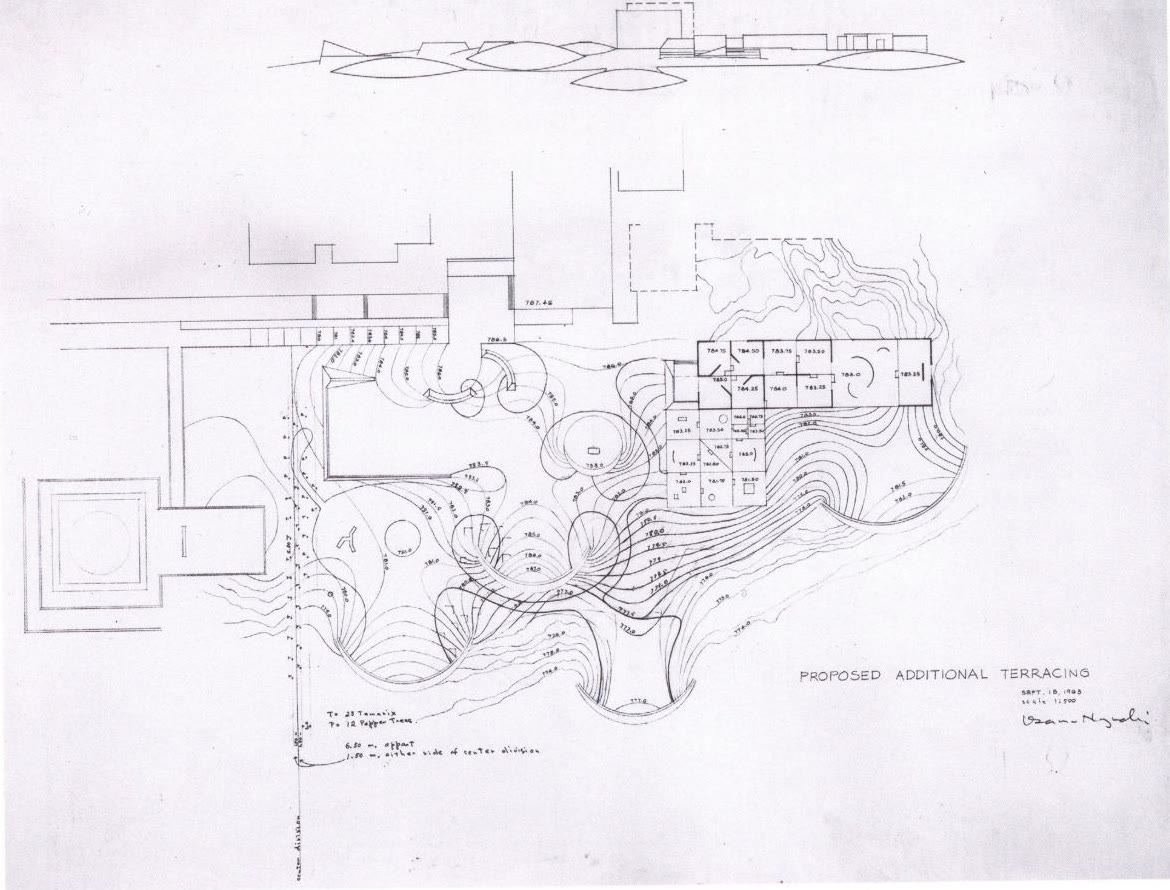
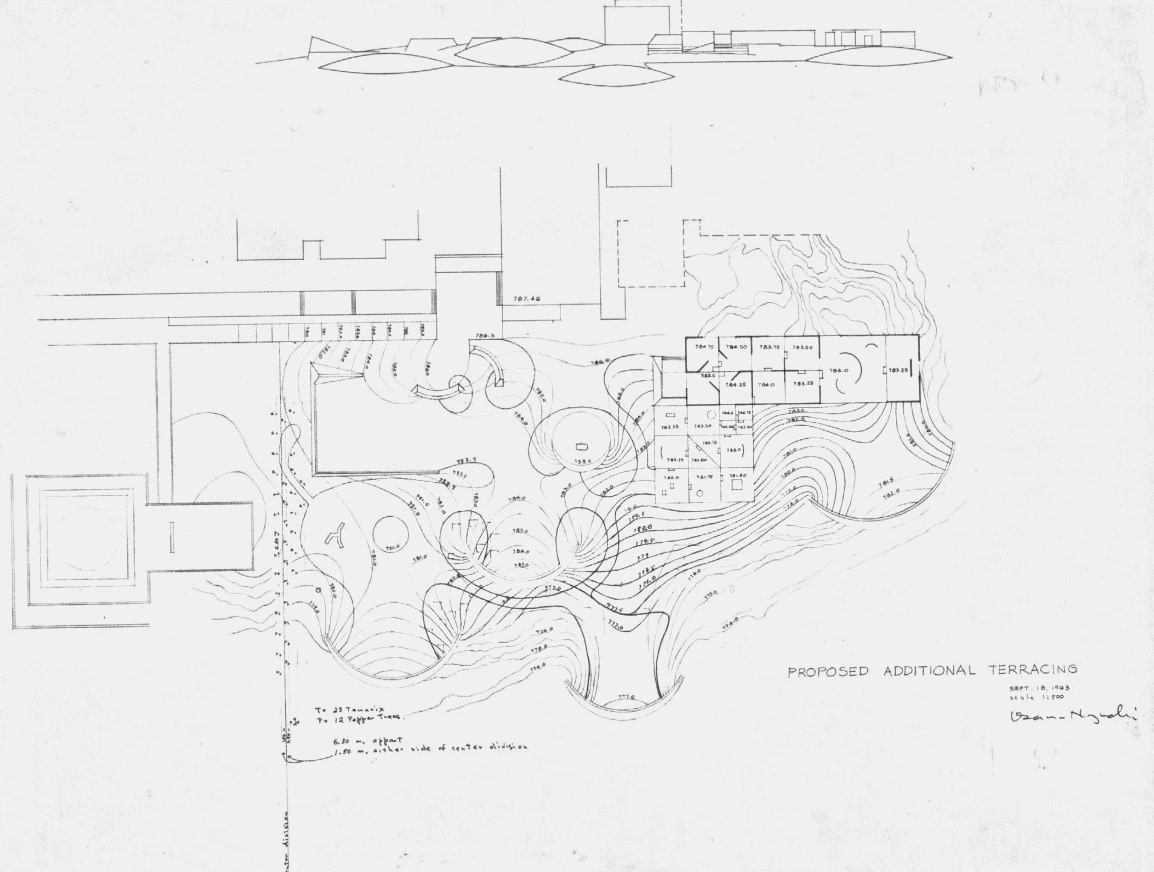
Exhibitions: continent filter and year sort; clean up two photos
- exhibitions.html/js: replace Period/Medium/Category with a Continent filter and a Year sort (oldest to newest or the reverse); filled in No Ordinary Light details
- Link the Donate nav items and footer button to donate.html
- Straighten and even out the Billy Rose garden drawing scan
- Crop the Do Not Touch sign out of the "I am not a designer" photo

diff --git a/exhibitions.html b/exhibitions.html
@@ -12,30 +12,27 @@
 <h1 class="wh-t">All Exhibitions</h1>
 <input class="ws" id="ws" type="search" placeholder="search…" aria-label="Search exhibitions" autocomplete="off">
 <div class="wchips" id="wchips" aria-live="polite"></div>
-<div class="wf" data-group="period"><button class="wf-b" type="button" aria-expanded="false" aria-controls="wl-period" aria-labelledby="wf-period"><svg class="wf-a" aria-hidden="true"><use href="#ar"/></svg></button>
-<div class="wf-c"><span class="wf-l" id="wf-period">Period</span>
-<ul class="wf-ls" id="wl-period"><li><button type="button">1920s</button></li><li><button type="button">1930s</button></li><li><button type="button">1940s</button></li><li><button type="button">1950s</button></li><li><button type="button">1960s</button></li><li><button type="button">1970s</button></li><li><button type="button">1980s</button></li></ul></div></div>
-<div class="wf" data-group="medium"><button class="wf-b" type="button" aria-expanded="false" aria-controls="wl-medium" aria-labelledby="wf-medium"><svg class="wf-a" aria-hidden="true"><use href="#ar"/></svg></button>
-<div class="wf-c"><span class="wf-l" id="wf-medium">Medium</span>
-<ul class="wf-ls" id="wl-medium"><li><button type="button">Plaster</button></li><li><button type="button">Terracotta</button></li><li><button type="button">Wood</button></li><li><button type="button">Stone</button></li><li><button type="button">Metal</button></li><li><button type="button">Ink</button></li><li><button type="button">Graphite</button></li></ul></div></div>
-<div class="wf" data-group="category"><button class="wf-b" type="button" aria-expanded="false" aria-controls="wl-category" aria-labelledby="wf-category"><svg class="wf-a" aria-hidden="true"><use href="#ar"/></svg></button>
-<div class="wf-c"><span class="wf-l" id="wf-category">Category</span>
-<ul class="wf-ls" id="wl-category"><li><button type="button">Sculpture</button></li><li><button type="button">Installation</button></li><li><button type="button">Industrial Design</button></li><li><button type="button">Illustration</button></li></ul></div></div>
+<div class="wf" data-group="continent"><button class="wf-b" type="button" aria-expanded="false" aria-controls="wl-continent" aria-labelledby="wf-continent"><svg class="wf-a" aria-hidden="true"><use href="#ar"/></svg></button>
+<div class="wf-c"><span class="wf-l" id="wf-continent">Continent</span>
+<ul class="wf-ls" id="wl-continent"><li><button type="button">Asia</button></li><li><button type="button">Europe</button></li><li><button type="button">North America</button></li></ul></div></div>
+<div class="wf" data-group="year"><button class="wf-b" type="button" aria-expanded="false" aria-controls="wl-year" aria-labelledby="wf-year"><svg class="wf-a" aria-hidden="true"><use href="#ar"/></svg></button>
+<div class="wf-c"><span class="wf-l" id="wf-year">Year</span>
+<ul class="wf-ls" id="wl-year"><li><button type="button">Oldest to newest</button></li><li><button type="button">Newest to oldest</button></li></ul></div></div>
 </div>
-<!-- Each exhibition: data-title/location/period drive search and filters (filters are placeholders for now).
+<!-- Each exhibition: data-title/location/continent/year drive search, the continent filter and the year sort. A blank year sorts last.
      Placeholders use data-w/data-h for their shape; swap the .ph div for an <img width height alt>. -->
 <div class="wg" id="wg">
-<figure class="wk" data-title="Landscapes of Time" data-location="Williamstown, MA" data-period="2020s"><img src="assets/images/landscapes-of-time.jpg" width="1280" height="853" alt="Three carved stone sculptures on a low white plinth before a wall-sized photograph of a face drawn in sand"><figcaption><b>Landscapes of Time</b><span>Williamstown, MA, 2025</span></figcaption></figure>
-<figure class="wk" data-title="Isamu Noguchi: I am not a designer" data-location="Atlanta, GA" data-period="2020s"><img src="assets/images/spiral-stone-and-lamps.jpg" width="1199" height="1800" alt="Pale marble spiral sculpture with carved steps, Akari paper lamps glowing behind it"><figcaption><b>Isamu Noguchi: I am not a designer</b><span>Atlanta, GA, 2026</span></figcaption></figure>
-<figure class="wk" data-title="In Situ" data-location="Hong Kong" data-period="2020s"><img src="assets/images/akari-timber-frame.jpg" width="1350" height="1800" alt="Akari paper lanterns of many shapes hung inside a lattice of timber beams"><figcaption><b>In Situ</b><span>Hong Kong, 2024</span></figcaption></figure>
-<figure class="wk" data-title="Isamu Noguchi: A New Nature" data-location="London" data-period="2020s"><img src="assets/images/black-sculpture-and-lanterns.jpg" width="1800" height="1800" alt="Black interlocking-plate sculpture on stepped plinths beneath a cloud of round Akari lanterns"><figcaption><b>Isamu Noguchi: A New Nature</b><span>London, 2022</span></figcaption></figure>
-<figure class="wk" data-title="No Ordinary Light" data-location="Location" data-period=""><img src="assets/images/no-ordinary-light.jpg" width="1800" height="1200" alt="Large glowing Akari globe inside a timber frame, with rough-cut stone sculptures on a wooden floor and paper lamps hanging by tall windows"><figcaption><b>No Ordinary Light</b><span>Location, Year</span></figcaption></figure>
-<figure class="wk" data-title="Exhibition 06" data-location="Location" data-period=""><div class="ph" data-w="177" data-h="249" role="img" aria-label="Placeholder: Exhibition 06"></div><figcaption><b>Exhibition 06</b><span>Location, Year</span></figcaption></figure>
-<figure class="wk" data-title="Exhibition 07" data-location="Location" data-period=""><div class="ph" data-w="240" data-h="170" role="img" aria-label="Placeholder: Exhibition 07"></div><figcaption><b>Exhibition 07</b><span>Location, Year</span></figcaption></figure>
-<figure class="wk" data-title="Exhibition 08" data-location="Location" data-period=""><div class="ph" data-w="115" data-h="157" role="img" aria-label="Placeholder: Exhibition 08"></div><figcaption><b>Exhibition 08</b><span>Location, Year</span></figcaption></figure>
-<figure class="wk" data-title="Exhibition 09" data-location="Location" data-period=""><div class="ph" data-w="177" data-h="250" role="img" aria-label="Placeholder: Exhibition 09"></div><figcaption><b>Exhibition 09</b><span>Location, Year</span></figcaption></figure>
-<figure class="wk" data-title="Exhibition 10" data-location="Location" data-period=""><div class="ph" data-w="321" data-h="239" role="img" aria-label="Placeholder: Exhibition 10"></div><figcaption><b>Exhibition 10</b><span>Location, Year</span></figcaption></figure>
-<figure class="wk" data-title="Exhibition 11" data-location="Location" data-period=""><div class="ph" data-w="115" data-h="156" role="img" aria-label="Placeholder: Exhibition 11"></div><figcaption><b>Exhibition 11</b><span>Location, Year</span></figcaption></figure>
+<figure class="wk" data-title="Landscapes of Time" data-location="Williamstown, MA" data-continent="North America" data-year="2025"><img src="assets/images/landscapes-of-time.jpg" width="1280" height="853" alt="Three carved stone sculptures on a low white plinth before a wall-sized photograph of a face drawn in sand"><figcaption><b>Landscapes of Time</b><span>Williamstown, MA, 2025</span></figcaption></figure>
+<figure class="wk" data-title="Isamu Noguchi: I am not a designer" data-location="Atlanta, GA" data-continent="North America" data-year="2026"><img src="assets/images/spiral-stone-and-lamps.jpg" width="1198" height="1624" alt="Pale marble spiral sculpture with carved steps, Akari paper lamps glowing behind it"><figcaption><b>Isamu Noguchi: I am not a designer</b><span>Atlanta, GA, 2026</span></figcaption></figure>
+<figure class="wk" data-title="In Situ" data-location="Hong Kong" data-continent="Asia" data-year="2024"><img src="assets/images/akari-timber-frame.jpg" width="1350" height="1800" alt="Akari paper lanterns of many shapes hung inside a lattice of timber beams"><figcaption><b>In Situ</b><span>Hong Kong, 2024</span></figcaption></figure>
+<figure class="wk" data-title="Isamu Noguchi: A New Nature" data-location="London" data-continent="Europe" data-year="2022"><img src="assets/images/black-sculpture-and-lanterns.jpg" width="1800" height="1800" alt="Black interlocking-plate sculpture on stepped plinths beneath a cloud of round Akari lanterns"><figcaption><b>Isamu Noguchi: A New Nature</b><span>London, 2022</span></figcaption></figure>
+<figure class="wk" data-title="No Ordinary Light" data-location="Long Island, NY" data-continent="North America" data-year="2026"><img src="assets/images/no-ordinary-light.jpg" width="1800" height="1200" alt="Large glowing Akari globe inside a timber frame, with rough-cut stone sculptures on a wooden floor and paper lamps hanging by tall windows"><figcaption><b>No Ordinary Light</b><span>Long Island, NY, 2026</span></figcaption></figure>
+<figure class="wk" data-title="Exhibition 06" data-location="Location" data-continent="" data-year=""><div class="ph" data-w="177" data-h="249" role="img" aria-label="Placeholder: Exhibition 06"></div><figcaption><b>Exhibition 06</b><span>Location, Year</span></figcaption></figure>
+<figure class="wk" data-title="Exhibition 07" data-location="Location" data-continent="" data-year=""><div class="ph" data-w="240" data-h="170" role="img" aria-label="Placeholder: Exhibition 07"></div><figcaption><b>Exhibition 07</b><span>Location, Year</span></figcaption></figure>
+<figure class="wk" data-title="Exhibition 08" data-location="Location" data-continent="" data-year=""><div class="ph" data-w="115" data-h="157" role="img" aria-label="Placeholder: Exhibition 08"></div><figcaption><b>Exhibition 08</b><span>Location, Year</span></figcaption></figure>
+<figure class="wk" data-title="Exhibition 09" data-location="Location" data-continent="" data-year=""><div class="ph" data-w="177" data-h="250" role="img" aria-label="Placeholder: Exhibition 09"></div><figcaption><b>Exhibition 09</b><span>Location, Year</span></figcaption></figure>
+<figure class="wk" data-title="Exhibition 10" data-location="Location" data-continent="" data-year=""><div class="ph" data-w="321" data-h="239" role="img" aria-label="Placeholder: Exhibition 10"></div><figcaption><b>Exhibition 10</b><span>Location, Year</span></figcaption></figure>
+<figure class="wk" data-title="Exhibition 11" data-location="Location" data-continent="" data-year=""><div class="ph" data-w="115" data-h="156" role="img" aria-label="Placeholder: Exhibition 11"></div><figcaption><b>Exhibition 11</b><span>Location, Year</span></figcaption></figure>
 </div>
 <p class="wempty" id="wempty" hidden>No exhibitions match these filters.</p>
 </main>

diff --git a/assets/js/exhibitions.js b/assets/js/exhibitions.js
@@ -1,4 +1,4 @@
-// Exhibitions page: masonry layout, filter menus, chips and search.
+// Exhibitions page: masonry layout, continent filter, year sort, chips and search.
 const $ = s => document.querySelector(s), $$ = s => [...document.querySelectorAll(s)];
 const reducedMotion = matchMedia('(prefers-reduced-motion: reduce)');
 const canHover = matchMedia('(hover: hover)');
@@ -38,7 +38,7 @@ works.forEach(fig => {
 
 let lastWidth = 0;
 function layout() {
-  const visible = works.filter(fig => !fig.hidden);
+  const visible = sorted().filter(fig => !fig.hidden);
   const cfg = innerWidth <= MOBILE ? SPANS.mobile : SPANS.desktop;
   const field = document.createElement('div');
   field.className = 'wl';
@@ -96,12 +96,26 @@ works.forEach(fig => fig.classList.add('rv'));
 const selected = []; // [{ group, value }] in the order they were picked
 let fadeTimer;
 
+// "Year" is a sort, not a filter: one choice at a time, oldest-to-newest or the reverse.
+// Exhibitions with no year yet always go last.
+function sorted() {
+  const pick = selected.find(s => s.group === 'year');
+  if (!pick) return works;
+  const dir = pick.value === 'Oldest to newest' ? 1 : -1;
+  const year = fig => parseInt(fig.dataset.year, 10);
+  return works.slice().sort((a, b) => {
+    const ya = year(a), yb = year(b);
+    if (isNaN(ya) || isNaN(yb)) return isNaN(ya) - isNaN(yb); // blank years last, original order kept
+    return (ya - yb) * dir;
+  });
+}
+
 function matches(fig) {
   const q = search.value.trim().toLowerCase();
   const d = fig.dataset;
-  if (q && ![d.title, d.location, d.medium, d.category, d.period].join(' ').toLowerCase().includes(q)) return false;
+  if (q && ![d.title, d.location, d.continent, d.year].join(' ').toLowerCase().includes(q)) return false;
   // OR within a group, AND across groups.
-  for (const group of ['medium', 'category', 'period']) {
+  for (const group of ['continent']) {
     const picks = selected.filter(s => s.group === group).map(s => s.value);
     if (picks.length && !picks.includes(d[group])) return false;
   }
@@ -128,13 +142,14 @@ function renderChips() {
     b.className = 'chip';
     const label = document.createElement('span');
     label.className = 'chip-l';
-    label.textContent = value;
+    const text = group === 'year' ? 'Year: ' + value : value;
+    label.textContent = text;
     const x = document.createElement('span');
     x.className = 'chip-x';
     x.setAttribute('aria-hidden', 'true');
     x.textContent = '\u00d7';
     b.append(label, x);
-    b.setAttribute('aria-label', 'Remove filter: ' + value);
+    b.setAttribute('aria-label', 'Remove ' + (group === 'year' ? 'sort' : 'filter') + ': ' + text);
     b.addEventListener('click', () => toggle(group, value));
     return b;
   }));
@@ -166,7 +181,11 @@ function sync() {
 
 function toggle(group, value) {
   const i = selected.findIndex(s => s.group === group && s.value === value);
-  if (i > -1) selected.splice(i, 1); else selected.push({ group, value });
+  if (i > -1) selected.splice(i, 1);
+  else {
+    if (group === 'year') for (let j = selected.length - 1; j >= 0; j--) if (selected[j].group === 'year') selected.splice(j, 1);
+    selected.push({ group, value });
+  }
   sync();
 }
 

diff --git a/index.html b/index.html
@@ -50,7 +50,7 @@
 <div class="exh"><h2>On View</h2><div class="exctl"><button type="button" id="exp" aria-label="Previous exhibition"><svg class="ar"><use href="#ar"/></svg></button><p aria-live="polite"><span id="exc">01</span> / <span id="ext">05</span></p><button type="button" id="exn" aria-label="Next exhibition"><svg class="ar"><use href="#ar"/></svg></button></div></div>
 <div class="exv" tabindex="0" role="region" aria-roledescription="carousel" aria-label="Exhibitions — swipe or use arrow keys"><div id="trk">
 <div class="it"><img alt="Three carved stone sculptures on a low white plinth before a wall-sized photograph of a face drawn in sand" src="assets/images/landscapes-of-time.jpg" width="1280" height="853"></div>
-<div class="it"><img alt="Pale marble spiral sculpture with carved steps, Akari paper lamps glowing behind it" src="assets/images/spiral-stone-and-lamps.jpg" width="1199" height="1800"></div>
+<div class="it"><img alt="Pale marble spiral sculpture with carved steps, Akari paper lamps glowing behind it" src="assets/images/spiral-stone-and-lamps.jpg" width="1198" height="1624"></div>
 <div class="it"><img alt="Akari paper lanterns of many shapes hung inside a lattice of timber beams" src="assets/images/akari-timber-frame.jpg" width="1350" height="1800"></div>
 <div class="it"><img alt="Black interlocking-plate sculpture on stepped plinths beneath a cloud of round Akari lanterns" src="assets/images/black-sculpture-and-lanterns.jpg" width="1800" height="1800"></div>
 <div class="it"><img alt="Large glowing Akari globe inside a timber frame, with rough-cut stone sculptures on a wooden floor and paper lamps hanging by tall windows" src="assets/images/no-ordinary-light.jpg" width="1800" height="1200"></div>

diff --git a/about.html b/about.html
@@ -43,7 +43,7 @@
 <p class="abt ab-tc">His creative process combined intuitive experimentation with an iterative approach to form-making. Throughout this process, Noguchi treated experimentation as an essential part of making, allowing material properties, spatial relationships, and unexpected discoveries to inform the final work.</p>
 <img class="ab-p6" data-par="-.05" src="assets/images/noguchi-plaster-form.jpg" width="600" height="789" alt="Noguchi kneeling as he shapes a large plaster sculpture with two curving arms">
 <img class="ab-p7" data-par=".06" src="assets/images/stone-carving-outdoors.jpg" width="1600" height="1088" alt="Noguchi and a stone carver working on granite sculptures outside a workshop">
-<div class="ab-p8 hv" data-par="-.05"><img src="assets/images/garden-plan-drawing.jpg" width="1170" height="890" alt="Noguchi’s drawing of proposed additional terracing for the Billy Rose Art Garden, Jerusalem">
+<div class="ab-p8 hv" data-par="-.05"><img src="assets/images/garden-plan-drawing.jpg" width="1154" height="872" alt="Noguchi’s drawing of proposed additional terracing for the Billy Rose Art Garden, Jerusalem">
 <div class="hc" aria-hidden="true"><p class="hc-t">Billy Rose Art Garden, Jerusalem</p><p>Year<br>Medium<br>Dimensions</p></div></div>
 <div class="abq"><blockquote><p><span>If you’re looking for yourself,</span><span>and you haven’t got the</span><span>foggiest idea, isn’t it natural</span><span>that you try everything?</span></p><cite>Isamu Noguchi</cite></blockquote><span class="qm" aria-hidden="true">”</span></div>
 </section>

diff --git a/assets/css/styles.css b/assets/css/styles.css
@@ -1638,7 +1638,7 @@ nav.top .nt:hover {
 .ab-p8 {
   grid-column:10/13;
   margin-top:60.7vw;
-  aspect-ratio:368/282;
+  aspect-ratio:1154/872;
 }
 
 /* Second quote: left-aligned, with the closing mark in the next column. */
@@ -2383,5 +2383,23 @@ nav.top .nt:hover {
   .ds-p {
     grid-column:1/-1;
     font-size:max(15px,4.2vw);
+  }
+}
+
+/* Exhibitions page filters: continent, and the year sort (its labels are longer, so it takes three columns). */
+.wf[data-group=continent] {
+  grid-column:6/8;
+}
+
+.wf[data-group=year] {
+  grid-column:8/11;
+}
+
+@media(max-width:760px) {
+  .wf[data-group=continent] {
+    grid-column:1/7;
+  }
+  .wf[data-group=year] {
+    grid-column:7/13;
   }
 }

diff --git a/CLAUDE.md b/CLAUDE.md
@@ -10,7 +10,7 @@ A small static site for the Isamu Noguchi Foundation & Garden Museum (GDES 3240 
 - `about.html` + `assets/js/about.js`: the About page (hero quote, staggered photo/text sections, two full-bleed photos). Uses `nav.top.stuck` like the works page and reuses `.sun`/`.sunf`, `.qm`/`blockquote`, `.cta.lines` and `.sign`. Each section (`.abg`) puts every item in grid row 1 and places it with an `ab-*` class (columns, vw `margin-top`, `aspect-ratio`). The hero is `assets/video/about-hero.mp4` (poster `about-hero.jpg`) with a soft gradient (`--shade`) under the quote. `data-par` sets an element's parallax speed.
 - `contact.html` + `assets/js/contact.js`: the Contact page (white panel with "Like what you see?" beside the garden video `contact-garden.mp4`, then three address columns). Every nav and footer Contact link points here; the footer keeps `id="contact"`. The address lines break with `<br>` and `white-space:nowrap` to match the design.
 - `donate.html`: the Donate page, a copy of the contact page's layout (same `.ch` hero with the elastic line comp, now reading "Like what you see?" / "Donate today", beside `donate-gallery.mp4`) followed by a "Your Donation Matters" paragraph (`.ds-p`, grid columns 1-4). It reuses `contact.js` and `elastic.js`. Every nav Donate link and footer "Donate Today" button points here. The hero CTA link is still `href="#"`.
-- `exhibitions.html` + `assets/js/exhibitions.js`: the All Exhibitions page, built like the works page (same `.wh`/`.wg`/`.wk` markup, filters, chips, search and masonry). Each `.wk` has a `figcaption` (title, location, year); `layout()` measures the caption at each candidate width so heights stay correct. Its filter options are still the works ones (placeholders until edited), and `data-location` is searchable. Home page "See all exhibitions" links here.
+- `exhibitions.html` + `assets/js/exhibitions.js`: the All Exhibitions page, built like the works page (same `.wh`/`.wg`/`.wk` markup, filters, chips, search and masonry). Each `.wk` has a `figcaption` (title, location, year); `layout()` measures the caption at each candidate width so heights stay correct. It has two menus: a Continent filter (option text must match each figure's `data-continent`; add options as exhibitions arrive) and a Year sort (single choice, oldest to newest or the reverse, by `data-year`; blank years go last). `data-location` is searchable. Home page "See all exhibitions" links here.
 - `assets/js/main.js`: scroll effects, sticky-nav title, parallax, reveal animations and the exhibition gallery.
 - `assets/js/elastic.js`: the elastic hand-drawn line hero for `contact.html` (reveal from the right, lines bow toward the cursor on hover). It is the same code as the "Elastic lines" block at the end of `main.js` (used by `index.html`), copied because the contact page doesn't load `main.js`. Change both together. The line SVGs use `.ln`, not `.wl` (that is the works grid).
 - `assets/images/`: JPGs with descriptive kebab-case names.
